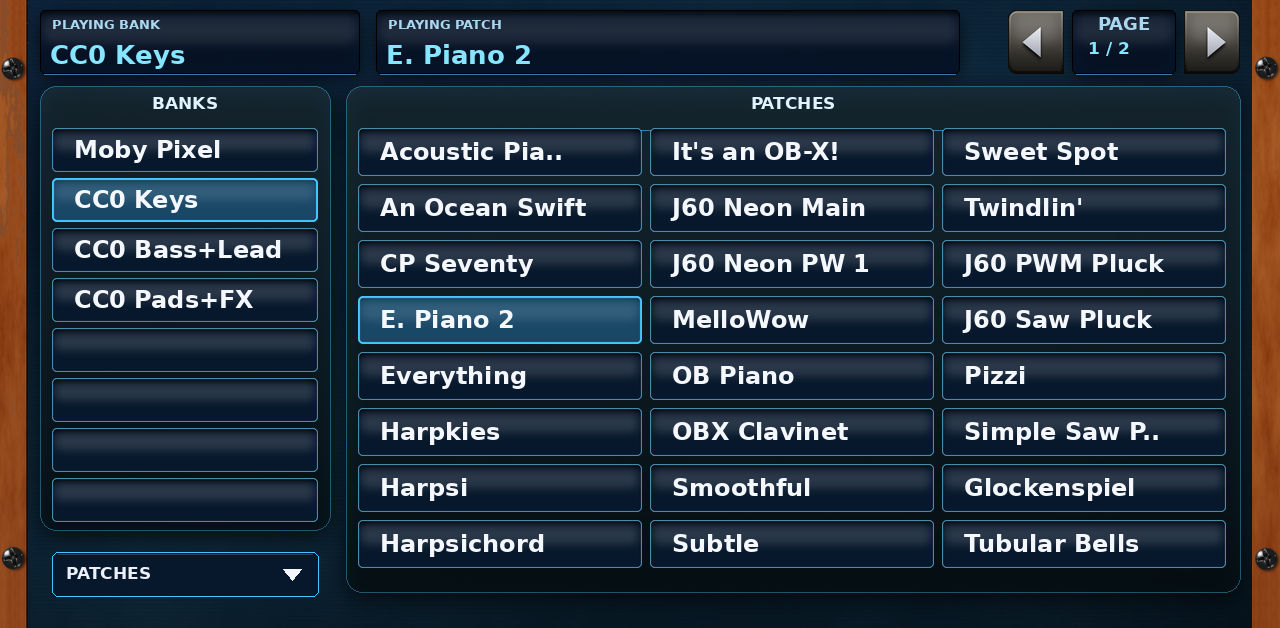
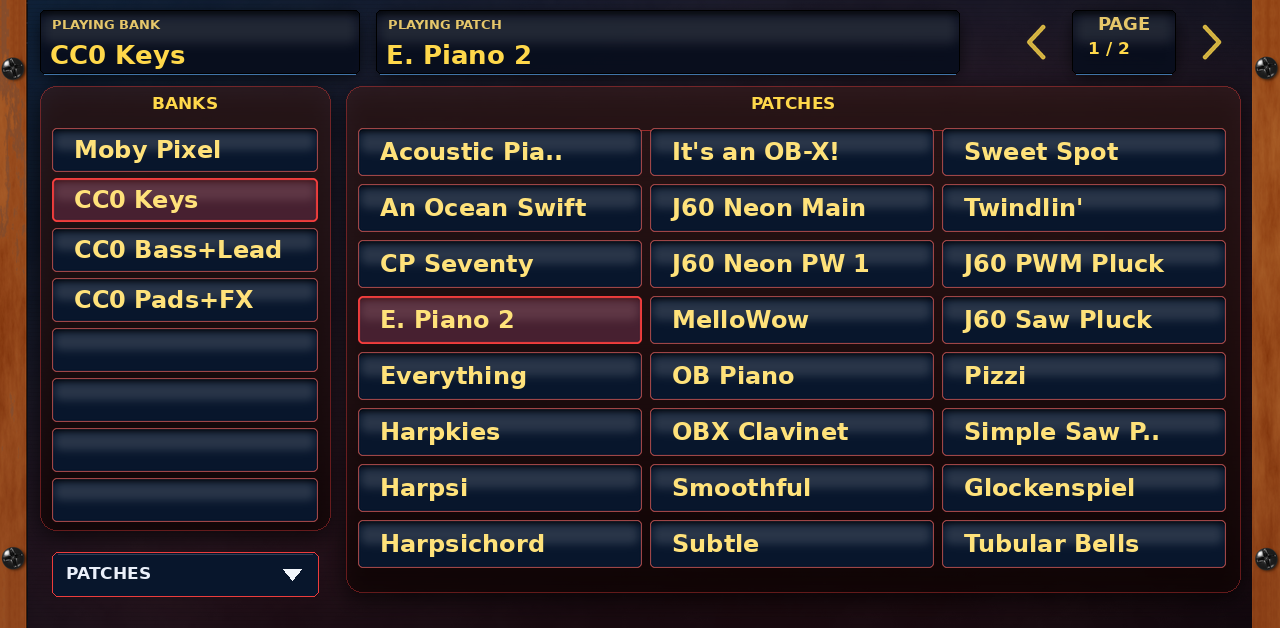
Header and themes: chevron arrows inside the displays, BPM moved to SETTINGS, black skin in red, Ocean in Mystique colours
- BANK / PATCH arrows are thin chevrons in the displays' ends (the touch areas are unchanged); the displays are wider.
- The BPM readout moves from the header to the top right of SETTINGS, a caption above the value, no box.
- MPC Black: red text and displays on neutral ash black, in BROWSE too. The wooden sides stay on every theme.
- Ocean: blue body with red section rules and BROWSE highlight, yellow glowing displays.
- README and screenshots updated.

Claude-Session: https://claude.ai/code/session_01J7zP2D1oZJs3XSQ3yQiZFU

diff --git a/tools/make_skin.py b/tools/make_skin.py
@@ -57,13 +57,13 @@ MORE_TOGGLES = [("pw_env_both", "PW ENV BOTH"), ("env_pitch_both", "PITCH ENV BO
 
 # LFO SYNC button + TEMPO display (the project's tempo), in the MODULATION section's free slot and the strip under it. Panel-image px.
 SYNC_CX, SYNC_CY, SYNC_LABEL_CY = 860, 532, 565         # the button's centre and its label's centre
-TEMPO_CX, TEMPO_CY, TEMPO_W, TEMPO_H = 1167, 36, 154, 64        # top right corner
+TEMPO_CX, TEMPO_CY, TEMPO_W, TEMPO_H = 1146, 36, 110, 64        # top right corner: plain text, no box (the tempo is only shown)
 LFO_WORD_BOX, SYNC_WORD_BOX = (680, 356, 706, 371), (320, 311, 369, 327)    # where the theme prints "LFO RATE" and "SYNC"
 
 # BANK / PATCH selector geometry (plugin-area pixels): display width, button width, strip top and height; groups = (x0, key)
-SEL_DW, SEL_BW, SEL_GAP, SEL_Y0, SEL_H = 250, 56, 4, 4, 64
+SEL_DW, SEL_BW, SEL_GAP, SEL_Y0, SEL_H = 350, 56, 4, 4, 64
 # a group is the stacked up/down button (left) then the display; x0 is the group's left edge. Two groups, 16 px apart, centred on x=640
-SEL_GROUPS = [(287, "bank"), (673, "patch")]      # group = left arrow (56), display (192), right arrow (56); 16 px apart, centred on x=640
+SEL_GROUPS = [(268, "bank"), (754, "patch")]      # group = one 470 px display with the arrows inside its ends (56 + 4 + 350 + 4 + 56); 16 px apart
 
 # Bigger controls for big hands (0.3.0). The theme's pictures are scaled up by these factors; the buttons' pictures carry a
 # transparent margin, which is the extra touch area (a toggle's touch box is its picture); knobs get a bigger touch box.
@@ -505,9 +505,31 @@ def main():
                 theme_pb[ti] = pb
     bg = first_bg
     from PIL import ImageDraw as _D
-    for left in (True, False):
-        for pressed in (False, True):
-            arrow_png(left, pressed).save(os.path.join(img, "sel_%s_%s.png" % ("left" if left else "right", "on" if pressed else "off")))
+    def chevron_png(left, pressed, th_):
+        """A thin chevron in the theme's display colour on a transparent picture (the arrows live inside the displays); lit with a soft glow when pressed."""
+        from PIL import ImageFilter
+        k = 4
+        w_, h_ = SEL_BW * k, SEL_H * k
+        col_ = tuple(int(th_["disp"][j:j + 2], 16) for j in (0, 2, 4))
+        cx_, cy_ = w_ // 2, h_ // 2
+        s_ = 1 if left else -1
+        pts = [(cx_ + s_ * 7 * k, cy_ - 15 * k), (cx_ - s_ * 7 * k, cy_), (cx_ + s_ * 7 * k, cy_ + 15 * k)]
+        out = Image.new("RGBA", (w_, h_), (0, 0, 0, 0))
+        if pressed:
+            gl = Image.new("L", (w_, h_), 0)
+            _D.Draw(gl).ellipse([cx_ - 24 * k, cy_ - 24 * k, cx_ + 24 * k, cy_ + 24 * k], fill=90)
+            out.paste(Image.new("RGBA", (w_, h_), col_ + (255,)), (0, 0), gl.filter(ImageFilter.GaussianBlur(9 * k)))
+        ln = Image.new("RGBA", (w_, h_), (0, 0, 0, 0))
+        _D.Draw(ln).line(pts, fill=(255, 255, 255, 255) if pressed else col_ + (205,), width=int((5.5 if pressed else 4.5) * k), joint="curve")
+        for p_ in (pts[0], pts[2]):                                                    # round end caps
+            r_ = (2.75 if pressed else 2.25) * k
+            _D.Draw(ln).ellipse([p_[0] - r_, p_[1] - r_, p_[0] + r_, p_[1] + r_], fill=(255, 255, 255, 255) if pressed else col_ + (205,))
+        out.alpha_composite(ln)
+        return out.resize((SEL_BW, SEL_H), Image.LANCZOS)
+    for ti_c, th_c in enumerate(panel_draw.THEMES):
+        for left in (True, False):
+            for pressed in (False, True):
+                chevron_png(left, pressed, th_c).save(os.path.join(img, "sel_%s_%s_%d.png" % ("left" if left else "right", "on" if pressed else "off", ti_c)))
     plate = "%02x%02x%02x" % bg.getpixel((AREA_W // 2, 2))[:3]
 
     # MORE page: the same knobs and buttons as the other pages, on a plate with panels like theirs
@@ -709,9 +731,6 @@ def main():
         th = panel_draw.THEMES[ti]
         wh = " when=theme:%d" % ti
         H_ = []
-        H_.append('text cx=%d cy=%d label="BPM" size=1.35 color=%s%s' % (TEMPO_CX, Y_OFF + TEMPO_CY - 20, th["cap"], wh))
-        H_.append('readout cx=%d cy=%d w=%d h=%d label="" key=tempo_text box=0 tsize=30 tcolor=%s talign=center tpad=0%s' % (
-            TEMPO_CX, Y_OFF + TEMPO_CY + 12, TEMPO_W - 20, 34, th["disp"], wh))
         for (x0, key) in SEL_GROUPS:
             top = Y_OFF + SEL_Y0
             dx = x0 + SEL_BW + SEL_GAP                       # the display's left edge
@@ -723,16 +742,18 @@ def main():
         return H_
 
     def header_buttons():
-        """The BANK / PATCH arrows (the same keys in every theme). The engine reads the .fxb banks in the "banks" folder next to the
-        plugin (src/obxd_banks.h). The right arrow steps to the next bank/patch, the left to the previous (wraps)."""
+        """The BANK / PATCH arrows: thin chevrons inside the displays' ends, in each theme's display colour (the same keys in every theme). The engine
+        reads the .fxb banks in the "banks" folder next to the plugin (src/obxd_banks.h). Right = next bank / patch, left = previous (wraps)."""
         H_ = []
-        for (x0, key) in SEL_GROUPS:
-            top = Y_OFF + SEL_Y0
-            dx = x0 + SEL_BW + SEL_GAP
-            H_.append('button cx=%d cy=%d label="" key=%s_prev img=images/sel_left_off.png img_on=images/sel_left_on.png w=%d h=%d' % (
-                x0 + SEL_BW // 2, top + SEL_H // 2, key, SEL_BW, SEL_H))
-            H_.append('button cx=%d cy=%d label="" key=%s_next img=images/sel_right_off.png img_on=images/sel_right_on.png w=%d h=%d' % (
-                dx + SEL_DW + SEL_GAP + SEL_BW // 2, top + SEL_H // 2, key, SEL_BW, SEL_H))
+        for ti, th in enumerate(panel_draw.THEMES):
+            wh = " when=theme:%d" % ti
+            for (x0, key) in SEL_GROUPS:
+                top = Y_OFF + SEL_Y0
+                dx = x0 + SEL_BW + SEL_GAP
+                H_.append('button cx=%d cy=%d label="" key=%s_prev img=images/sel_left_off_%d.png img_on=images/sel_left_on_%d.png w=%d h=%d%s' % (
+                    x0 + SEL_BW // 2, top + SEL_H // 2, key, ti, ti, SEL_BW, SEL_H, wh))
+                H_.append('button cx=%d cy=%d label="" key=%s_next img=images/sel_right_off_%d.png img_on=images/sel_right_on_%d.png w=%d h=%d%s' % (
+                    dx + SEL_DW + SEL_GAP + SEL_BW // 2, top + SEL_H // 2, key, ti, ti, SEL_BW, SEL_H, wh))
         return H_
 
     TAB_NAMES = {"osc": "OSC", "filter": "FILTER"}
@@ -818,9 +839,11 @@ def main():
         for (x0, y0, x1, y1), tkey in ((BR_BANKS, "br_bank_title"), (BR_PATCH, "br_patch_title")):
             L.append('readout cx=%d cy=%d w=%d h=%d label="" key=%s box=0 tsize=24 tcolor=%s talign=center tpad=0%s' % (
                 (x0 + x1) // 2, Y_OFF + y0 + 18, x1 - x0 - 16, 30, tkey, ink_, wh))
-    for sx, key in ((1036, "pt_pg_prev"), (1212, "pt_pg_next")):
-        L.append('button cx=%d cy=%d label="" key=%s img=images/sel_%s_off.png img_on=images/sel_%s_on.png w=%d h=%d' % (
-            sx, Y_OFF + 42, key, "left" if "prev" in key else "right", "left" if "prev" in key else "right", SEL_BW, SEL_H))
+    for ti_ in range(nth):
+        for sx, key in ((1036, "pt_pg_prev"), (1212, "pt_pg_next")):
+            sd = "left" if "prev" in key else "right"
+            L.append('button cx=%d cy=%d label="" key=%s img=images/sel_%s_off_%d.png img_on=images/sel_%s_on_%d.png w=%d h=%d when=theme:%d' % (
+                sx, Y_OFF + 42, key, sd, ti_, sd, ti_, SEL_BW, SEL_H, ti_))
     TILE = 'tsize=24 tweight=semibold talign=left tx=22'
     for ti_ in range(nth):
         tl = TILE + " tcolor=%s when=theme:%d" % (panel_draw.THEMES[ti_].get("tx", "f4f7fb"), ti_)
@@ -845,6 +868,9 @@ def main():
     for ti_, th_ in enumerate(panel_draw.THEMES):                      # the caption is live text so it can be a proper size; the plate's own ink (dark on the light skins)
         L.append('readout cx=%d cy=%d w=200 h=26 label="" key=ui_cap_theme box=0 tsize=22 tweight=semibold tcolor=%02x%02x%02x talign=left tpad=0 when=theme:%d' % (
             60 + 100, Y_OFF + 18, th_["ink"][0], th_["ink"][1], th_["ink"][2], ti_))
+    for ti_, th_ in enumerate(panel_draw.THEMES):                      # the project tempo (read only; it drives LFO SYNC), top right, caption above the value
+        L.append('text cx=%d cy=%d label="BPM" size=1.25 color=%02x%02x%02x when=theme:%d' % (1160, Y_OFF + 18, th_["ink"][0], th_["ink"][1], th_["ink"][2], ti_))
+        L.append('readout cx=%d cy=%d w=160 h=40 label="" key=tempo_text box=0 tsize=34 tweight=semibold tcolor=%s talign=center tpad=0 when=theme:%d' % (1160, Y_OFF + 54, th_["val"], ti_))
     L.append('popup cx=190 cy=%d w=260 h=44 label="" key=theme field=none img=images/popup_list.png accent=f2f6fb' % (Y_OFF + 56))      # the colour theme (a drop-down): swaps every page's pictures
     L.append('qlinks "SETTINGS" = ' + ",".join(k for k, _ in MORE_KNOBS))
 

diff --git a/tools/panel_draw.py b/tools/panel_draw.py
@@ -40,9 +40,9 @@ THEMES = [
     # accent line under every section title; div_d / div_l = the dividers' shade and light edge; logo; well = (glass tint, alpha, gloss, rim) of the display
     # windows; disp / dim / cap = display text, quiet display text and display captions; glass = the BROWSE tiles' dark glass; acc = the BROWSE accent
     # (selected tile, card edge, glow); bink = BROWSE card titles; val = a live value on the SETTINGS panels.
-    dict(key="ocean", name="Ocean", base=(24, 66, 112), base2=(8, 24, 50), noise=0.7, ink=(224, 238, 252), rule=(70, 196, 255), div_d=(4, 12, 28), div_l=(64, 116, 168),
-         logo=(228, 242, 254), well=((6, 18, 38), 225, 26, (0, 0, 0)), disp="86e6ff", dim="52aed0", cap="aad8f0",
-         glass=(8, 24, 44), acc=(70, 196, 255), bink="dff4ff", val="86e6ff"),
+    dict(key="ocean", name="Ocean", base=(24, 66, 112), base2=(8, 24, 50), noise=0.7, ink=(224, 238, 252), rule=(232, 52, 58), div_d=(4, 12, 28), div_l=(64, 116, 168),
+         logo=(228, 242, 254), well=((8, 14, 30), 228, 26, (0, 0, 0)), disp="ffd84a", dim="c9a22c", cap="e6c76a",
+         glass=(8, 22, 44), acc=(236, 60, 60), bink="ffd84a", val="ffd84a", tx="ffe27a"),
     dict(key="violet", name="Violet", base=(84, 48, 134), base2=(30, 16, 62), noise=0.7, ink=(240, 232, 254), rule=(196, 118, 255), div_d=(14, 8, 30), div_l=(128, 96, 180),
          logo=(244, 236, 255), well=((22, 11, 40), 225, 26, (0, 0, 0)), disp="e4b0ff", dim="aa7cda", cap="d0b8f0",
          glass=(24, 13, 44), acc=(196, 118, 255), bink="f0e2ff", val="e4b0ff"),
@@ -51,10 +51,10 @@ THEMES = [
          glass=(24, 24, 27), acc=(230, 52, 44), bink="ff5a4e", val="ff4a3e", tx="ff5a4e", lift=20, glowk=0.15),
     dict(key="tangerine", name="Tangerine", base=(232, 126, 44), base2=(176, 66, 22), noise=0.6, ink=(40, 20, 12), rule=(255, 234, 190), div_d=(122, 52, 16), div_l=(255, 176, 104),
          logo=(42, 22, 12), well=((30, 15, 8), 235, 22, (0, 0, 0)), disp="ffc66e", dim="cc8a3c", cap="ffe4ba",
-         glass=(38, 19, 10), acc=(255, 190, 96), bink="ffe9c8", val="2a140a"),
+         glass=(38, 19, 10), acc=(255, 190, 96), bink="ffe9c8", val="2a140a", bpm="2e1608", bpmcap="6a3414"),
     dict(key="jade", name="Jade", base=(184, 220, 206), base2=(126, 174, 160), noise=0.5, ink=(18, 52, 46), rule=(228, 96, 72), div_d=(62, 102, 92), div_l=(220, 244, 234),
          logo=(20, 58, 50), well=((14, 34, 30), 235, 22, (0, 0, 0)), disp="92f2ca", dim="56bc96", cap="c2f0de",
-         glass=(14, 34, 30), acc=(120, 242, 198), bink="d8fbee", val="13322c"),
+         glass=(14, 34, 30), acc=(120, 242, 198), bink="d8fbee", val="13322c", bpm="13322c", bpmcap="3c6a5c"),
 ]
 CUR = dict(THEMES[0])                          # the theme being drawn
 
@@ -280,10 +280,12 @@ def draw(page, theme, bg, base_rgb, logo_mask, sel_groups, sel_dw, sel_bw, sel_g
     # ---- the top strip: logo, BANK / PATCH displays, BPM display (on every page)
     bg.alpha_composite(logo, (160 - logo.width // 2, 8))
     d = ImageDraw.Draw(bg)
-    for (x0, _k) in sel_groups:
-        dx = x0 + sel_bw + sel_gap
-        _well(bg, dx, sel_y0, dx + sel_dw, sel_y0 + sel_h)
-    _well(bg, *tempo_box)
+    for (x0, _k) in sel_groups:                       # one display per group, the two arrows live inside its ends, split off by hairlines
+        gw = sel_bw * 2 + sel_gap * 2 + sel_dw
+        _well(bg, x0, sel_y0, x0 + gw, sel_y0 + sel_h)
+        d = ImageDraw.Draw(bg)
+        for lx in (x0 + sel_bw, x0 + gw - sel_bw):
+            d.line([lx, sel_y0 + 12, lx, sel_y0 + sel_h - 12], fill=tuple(CUR["rule"]) + (110,), width=1)
     d = ImageDraw.Draw(bg)
 
     def col(blocks):

diff --git a/README.md b/README.md
@@ -17,9 +17,10 @@ A native ARM VST2 build of the OB-Xd synthesizer for first-generation Akai MPC /
   knobs and buttons for fingers (tabs at the top): **OSC** (master, global, oscillators, mixer, control, amp envelope), **FILTER**
   (filter, filter envelope, modulation, voice variation) and **SETTINGS** for the controls the panel has no place for.
   BANK, PATCH and BPM are on the OSC and FILTER pages.
-- **THEME** (a drop-down in the top left of the SETTINGS page, touch only): five looks, switched live. **Ocean** (default, deep blue with cyan displays),
+- **THEME** (a drop-down in the top left of the SETTINGS page, touch only): five looks, switched live. **Ocean** (default, deep blue with red accent lines and yellow glowing displays),
   **Violet** (deep purple with lilac displays), **MPC Black** (black with red displays), **Tangerine** (orange with amber displays on smoked glass) and
-  **Jade** (light seafoam with mint displays). The BANK / PATCH / BPM displays, legato and voices readouts, and the BROWSE page change with it.
+  **Jade** (light seafoam with mint displays). The BANK / PATCH displays, legato and voices readouts, and the BROWSE page change with it. The BANK / PATCH arrows are thin chevrons inside
+  their displays; the project tempo (BPM) is shown at the top right of SETTINGS.
   Saved as a normal parameter at the end of the list, so older projects load unchanged (the old Slate, MPC Grey and Retro slots now show Ocean,
   Violet and Tangerine).
 - **FREQUENCY (Hz):** reference pitch, 400 to 480 Hz (default 440), on the SETTINGS page. It sits on top of TUNE and is not stored in presets.
